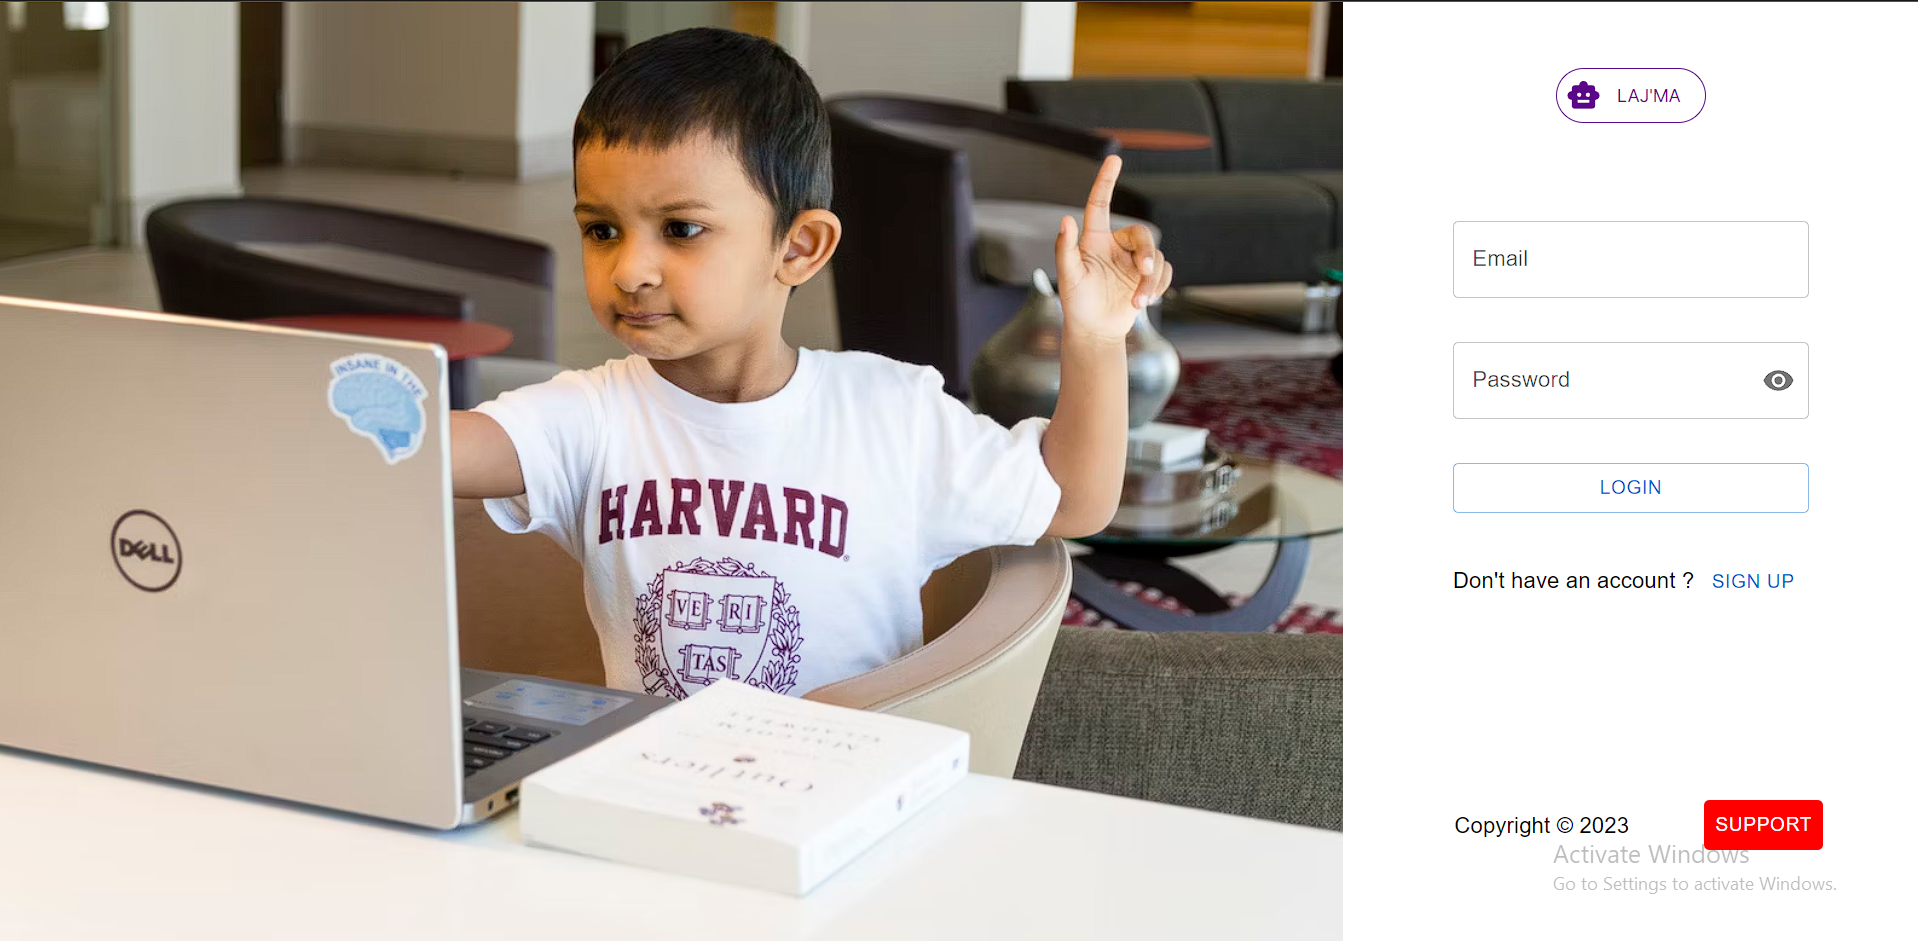
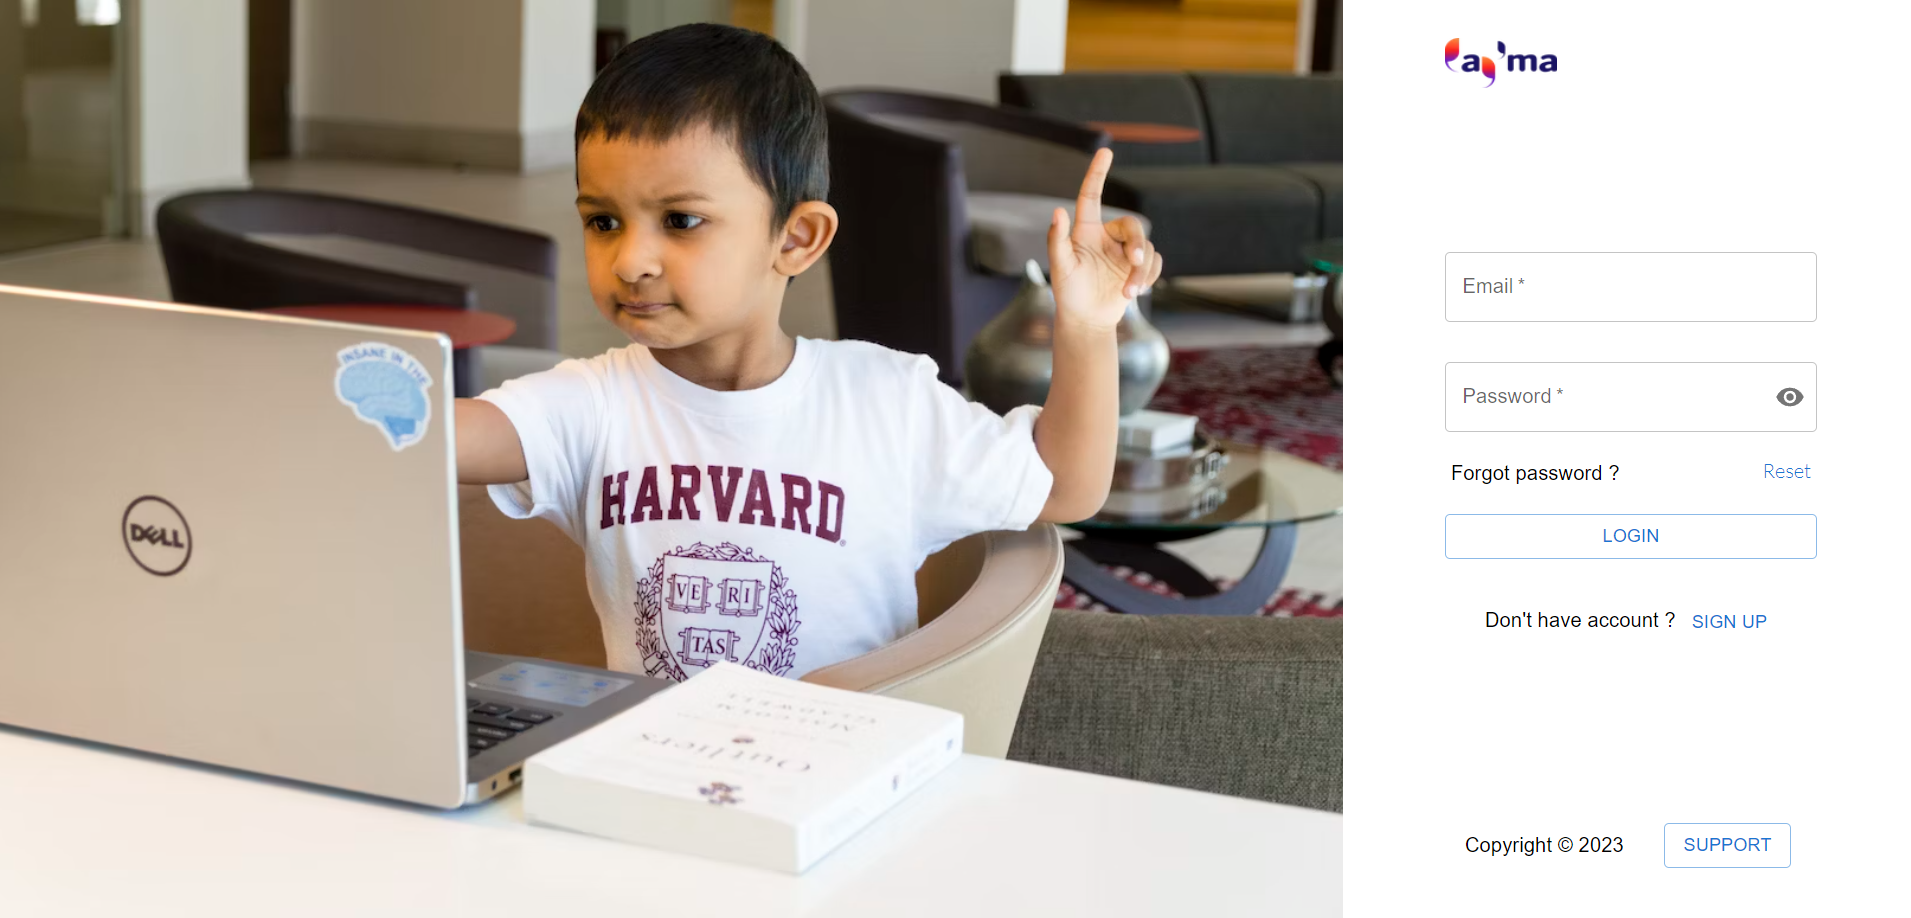
readme and email service

diff --git a/src/components/Login/Login.tsx b/src/components/Login/Login.tsx
@@ -95,22 +95,27 @@ export default function Login({ onFormChange }: LoginPageProps) {
                     />
                 </FormControl>
                 </motion.div>
-                <motion.div className="item" variants={item}>
-                    <Link href="/resetpassword" underline="none" sx={{ padding: ".3rem", textAlign: "right"}}>
-                        Forgot password 
-                    </Link>
-                </motion.div>
+                <Box sx={{ padding: ".3rem", display: "flex", justifyContent: "space-between"}}>
+                    <motion.div className="item" variants={item}>
+                        <Typography>Forgot password ? </Typography>
+                    </motion.div>
+                    <motion.div className="item" variants={item}>
+                        <Link href="/resetpassword" underline="none">
+                            Reset 
+                        </Link>
+                    </motion.div>
+                </Box>
                 <motion.div className="item" variants={item}>
                 <Button variant="outlined" sx={{ margin: "1rem 0" , width: "100%"}} type="submit" disabled={authContext.sendingRequest}>
                     {authContext.sendingRequest ? LoadingContent : "Login"}
                 </Button>
                 </motion.div>
-                </form>
                 <motion.div className="item" variants={item}>
                 <Typography sx={{ padding: "1rem 2rem"}}>
-                    New to Laj&apos;ma ?  <Button variant="text" onClick={() => onFormChange("register")}>Sign up</Button>
+                    Don&apos;t have account ?  <Button variant="text" onClick={() => onFormChange("register")}>Sign up</Button>
                 </Typography>
                 </motion.div>
+                </form>
             </motion.div>
     );
 }

diff --git a/api/Services/EmailService.cs b/api/Services/EmailService.cs
@@ -1,0 +1,42 @@
+using MailKit.Net.Smtp;
+using MailKit.Security;
+using MimeKit;
+using MimeKit.Text;
+
+namespace Lajma.Backend.Services
+{
+    public class EmailService : IEmailService
+    {
+       public void SendEmail(string toUserEmail, string toUsername)
+       {
+
+            string body = $"Dear {toUsername},\n 😊" + "We are excited to welcome you to Laj'ma 🤖, the innovative chatbot application inspired by " +
+                $"the groundbreaking technology developed by OpenAI. We're thrilled that you've chosen to join our community of users" +
+                $" who appreciate the power of conversational AI. With Laj'ma, you'll experience the future of intelligent, interactive communication.";
+
+            try
+            {
+
+                DotNetEnv.Env.Load();
+                var sender = Environment.GetEnvironmentVariable("SENDER");
+                var senderAuth = Environment.GetEnvironmentVariable("AUTH");
+
+                var email = new MimeMessage();
+                email.From.Add(MailboxAddress.Parse(sender));
+                email.To.Add(MailboxAddress.Parse(toUserEmail));
+                email.Subject = "Subject: Welcome to Laj'ma - Chatbot Inspired by OpenAI!";
+                email.Body = new TextPart(TextFormat.Html) { Text = body };
+
+                using var smtp = new SmtpClient();
+                smtp.Connect("smtp.gmail.com", 587, SecureSocketOptions.StartTls);
+                smtp.Authenticate(sender, senderAuth);
+                smtp.Send(email);
+                smtp.Disconnect(true);
+            }
+            catch (Exception ex)
+            {
+               // log error
+            }
+       }   
+    }
+}

diff --git a/api/Services/ApplicationUserService.cs b/api/Services/ApplicationUserService.cs
@@ -13,12 +13,14 @@ namespace Lajma.Backend.Services
         private static ApplicationDbContext? context { get; set; }
         private static IConfiguration? config { get; set; }
         private static IMapper mapper;
+        private EmailService emailService;
 
         public ApplicationUserService(ApplicationDbContext _context, IConfiguration _config, IMapper _mapper)
         {
             context = _context;
             config = _config;
             mapper = _mapper;
+            emailService = new EmailService();
         }
 
         public ApiResponse<ApplicationUserDto> UserAuthenticationService(ApplicationUserAuthDto userAuth)
@@ -73,7 +75,8 @@ namespace Lajma.Backend.Services
                 context.Add(appUser);
                 context.SaveChanges();
 
-                var token = Encrypt.GenerateSessionToken(appUser, config);
+                var token = Encrypt.GenerateSessionToken(appUser, config); // get token
+                emailService.SendEmail(user.Email, user.Username); // send email
 
                 return new ApiResponse<ApplicationUserDto>
                 {

diff --git a/api/Services/IEmailService.cs b/api/Services/IEmailService.cs
@@ -1,0 +1,7 @@
+namespace Lajma.Backend.Services
+{
+    public interface IEmailService
+    {
+         void SendEmail(string toUserEmail, string toUsername);
+    }
+}
